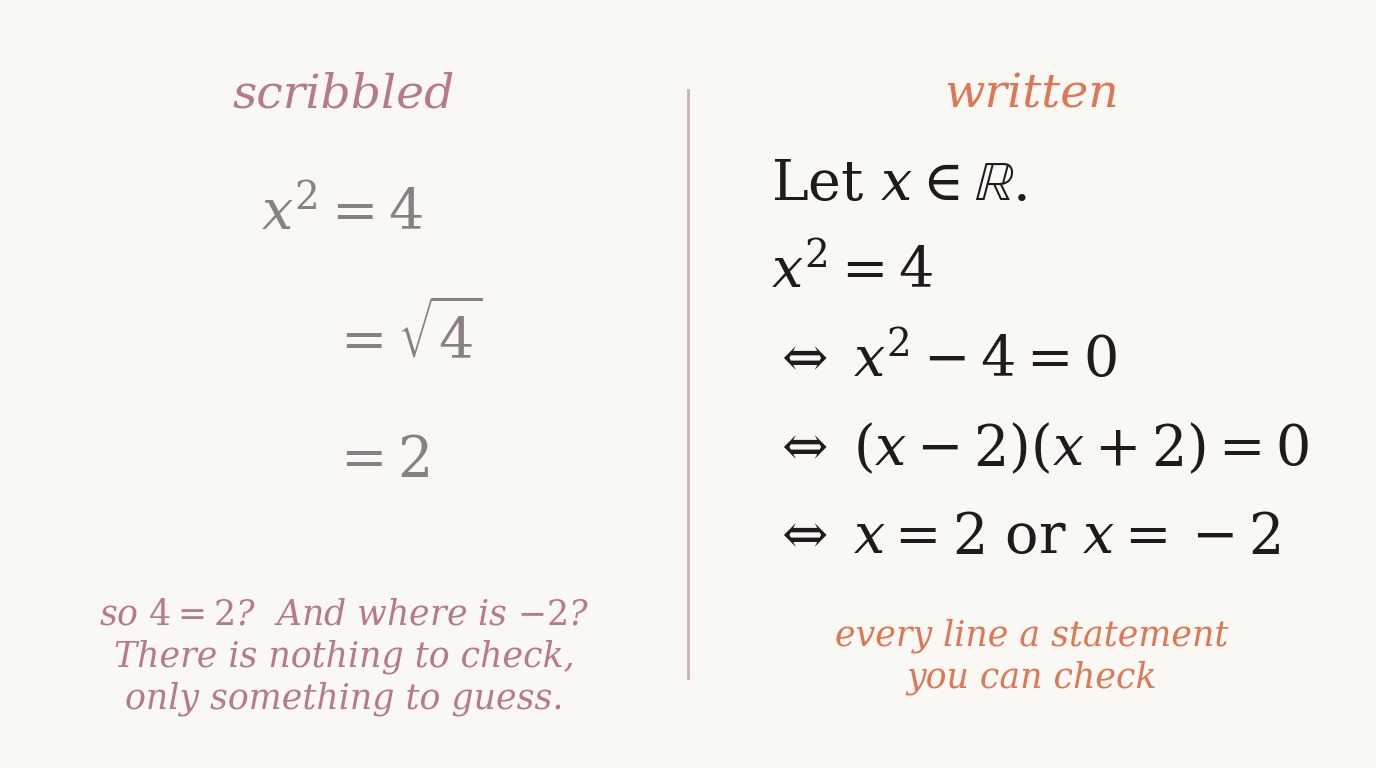
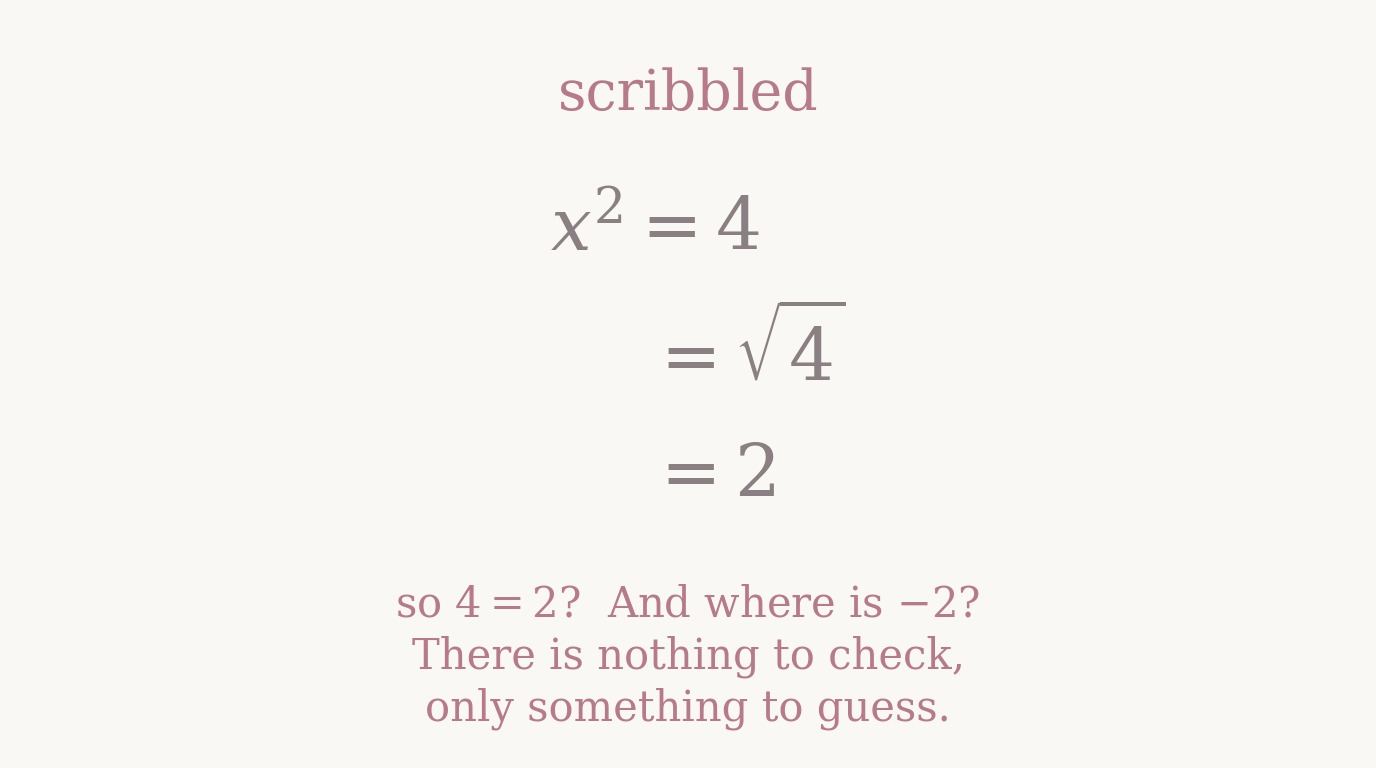
math-writing: card shows the scribbled side only; separate comparison figure for the article

diff --git a/math-writing/math_writing_card.py b/math-writing/math_writing_card.py
@@ -1,6 +1,7 @@
-"""Card image for 'Easy Writing "Mathematisch"': left the scribbled chain x² = 4 = √4 = 2, right the same
-solution written as a chain of equivalent statements. Large type, so it stays readable as a small card.
-Usage: python math_writing_card.py out.jpg"""
+"""Two figures for 'Easy Writing "Mathematisch"'.
+  card:    only the scribbled chain x² = 4, = √4, = 2 (card and header image)
+  compare: the scribbled chain next to the same solution written as a chain of equivalent statements
+Usage: python math_writing_card.py out.jpg [card|compare]"""
 import sys
 import matplotlib
 matplotlib.use('Agg')
@@ -10,6 +11,7 @@ W, H = 1376, 768
 IVORY, ROSE, TERRA, DARK, MUTED = '#FAF8F5', '#B77A8A', '#DF7654', '#1F1A1C', '#8A7F82'
 plt.rcParams['mathtext.fontset'] = 'dejavuserif'
 NL = chr(10)
+mode = sys.argv[2] if len(sys.argv) > 2 else 'card'
 
 fig = plt.figure(figsize=(W / 100, H / 100), dpi=100)
 fig.patch.set_facecolor(IVORY)
@@ -19,32 +21,34 @@ ax.axis('off')
 ax.set_xlim(0, W)
 ax.set_ylim(0, H)
 
-# divider
-ax.plot([W / 2, W / 2], [90, H - 90], color=ROSE, lw=2, alpha=0.6)
-
-# headings
-ax.text(W * 0.25, H - 95, 'scribbled', ha='center', va='center', fontsize=34, style='italic', family='serif', color=ROSE)
-ax.text(W * 0.75, H - 95, 'written', ha='center', va='center', fontsize=34, style='italic', family='serif', color=TERRA)
-
-# left: the chain of equals signs, line by line
-left = [(r'$x^2 = 4$', 0.19), (r'$= \sqrt{4}$', 0.24), (r'$= 2$', 0.24)]
-for i, (t, xf) in enumerate(left):
-    ax.text(W * xf, H * 0.72 - i * 0.16 * H, t, ha='left', va='center', fontsize=40, color=MUTED, family='serif')
 caption_left = NL.join(['so $4 = 2$?  And where is $-2$?', 'There is nothing to check,', 'only something to guess.'])
-ax.text(W * 0.25, H * 0.145, caption_left, ha='center', va='center', fontsize=25,
-        linespacing=1.3, style='italic', family='serif', color=ROSE)
-
-# right: a chain of equivalent statements, one per line
-lines = [r'Let $x \in \mathbb{R}$.',
-         r'$x^2 = 4$',
-         r'$\Leftrightarrow\; x^2 - 4 = 0$',
-         r'$\Leftrightarrow\; (x-2)(x+2) = 0$',
-         r'$\Leftrightarrow\; x = 2$ or $x = -2$']
-x0 = W * 0.56
-for i, s in enumerate(lines):
-    ax.text(x0, H * 0.76 - i * 0.115 * H, s, ha='left', va='center', fontsize=40, color=DARK, family='serif')
 caption_right = NL.join(['every line a statement', 'you can check'])
-ax.text(W * 0.75, H * 0.145, caption_right, ha='center', va='center', fontsize=25,
-        linespacing=1.3, style='italic', family='serif', color=TERRA)
+
+if mode == 'card':
+    # the scribbled side alone, across the whole image
+    ax.text(W * 0.5, H - 95, 'scribbled', ha='center', va='center', fontsize=40, family='serif', color=ROSE)
+    left = [(r'$x^2 = 4$', 0.40), (r'$= \sqrt{4}$', 0.47), (r'$= 2$', 0.47)]
+    for i, (t, xf) in enumerate(left):
+        ax.text(W * xf, H * 0.70 - i * 0.16 * H, t, ha='left', va='center', fontsize=52, color=MUTED, family='serif')
+    ax.text(W * 0.5, H * 0.145, caption_left, ha='center', va='center', fontsize=30,
+            linespacing=1.3, family='serif', color=ROSE)
+else:
+    ax.plot([W / 2, W / 2], [90, H - 90], color=ROSE, lw=2, alpha=0.6)
+    ax.text(W * 0.25, H - 95, 'scribbled', ha='center', va='center', fontsize=34, family='serif', color=ROSE)
+    ax.text(W * 0.75, H - 95, 'written', ha='center', va='center', fontsize=34, family='serif', color=TERRA)
+    left = [(r'$x^2 = 4$', 0.19), (r'$= \sqrt{4}$', 0.24), (r'$= 2$', 0.24)]
+    for i, (t, xf) in enumerate(left):
+        ax.text(W * xf, H * 0.72 - i * 0.16 * H, t, ha='left', va='center', fontsize=40, color=MUTED, family='serif')
+    ax.text(W * 0.25, H * 0.145, caption_left, ha='center', va='center', fontsize=25,
+            linespacing=1.3, family='serif', color=ROSE)
+    lines = [r'Let $x \in \mathbb{R}$.',
+             r'$x^2 = 4$',
+             r'$\Leftrightarrow\; x^2 - 4 = 0$',
+             r'$\Leftrightarrow\; (x-2)(x+2) = 0$',
+             r'$\Leftrightarrow\; x = 2$ or $x = -2$']
+    for i, t in enumerate(lines):
+        ax.text(W * 0.56, H * 0.76 - i * 0.115 * H, t, ha='left', va='center', fontsize=40, color=DARK, family='serif')
+    ax.text(W * 0.75, H * 0.145, caption_right, ha='center', va='center', fontsize=25,
+            linespacing=1.3, family='serif', color=TERRA)
 
 fig.savefig(sys.argv[1], dpi=100, facecolor=IVORY, pil_kwargs={'quality': 92})

diff --git a/math-writing/README.md b/math-writing/README.md
@@ -3,7 +3,8 @@
 Article: [https://belindata.com/projects/math-writing.html](https://belindata.com/projects/math-writing.html) (in progress)
 
 - `moser_circle.html`: the interactive from the article as a standalone page. Open it in any browser, no installation needed.
-- `math_writing_card.py`: the card image: the scribbled chain x² = 4 = √4 = 2 next to the same solution written as a chain of equivalent statements
+- `math_writing_card.py`: two figures. `card`: the scribbled chain x² = 4, = √4, = 2 alone (card and header image); `compare`: the scribbled chain next to the same solution written as a chain of equivalent statements (`python math_writing_card.py out.jpg compare`)
+- `math_writing_compare.jpg`: the comparison figure as used in the article
 - `card_math_writing.jpg`: the image as used on the site
 
 Python scripts need `numpy` and `matplotlib` (`pip install -r ../requirements.txt`).
